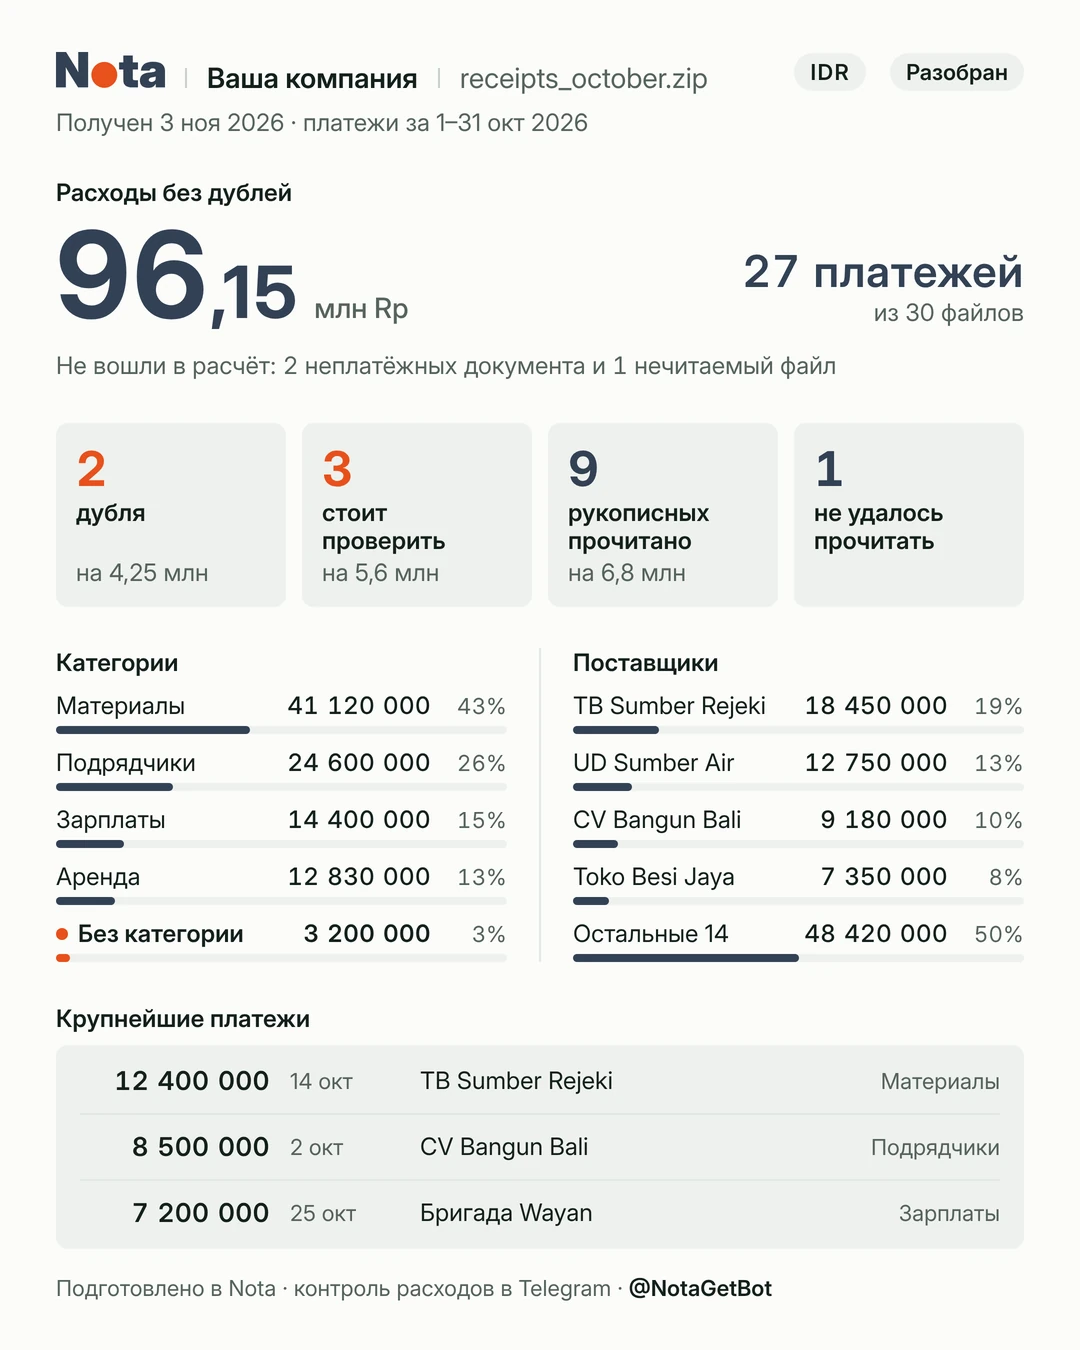
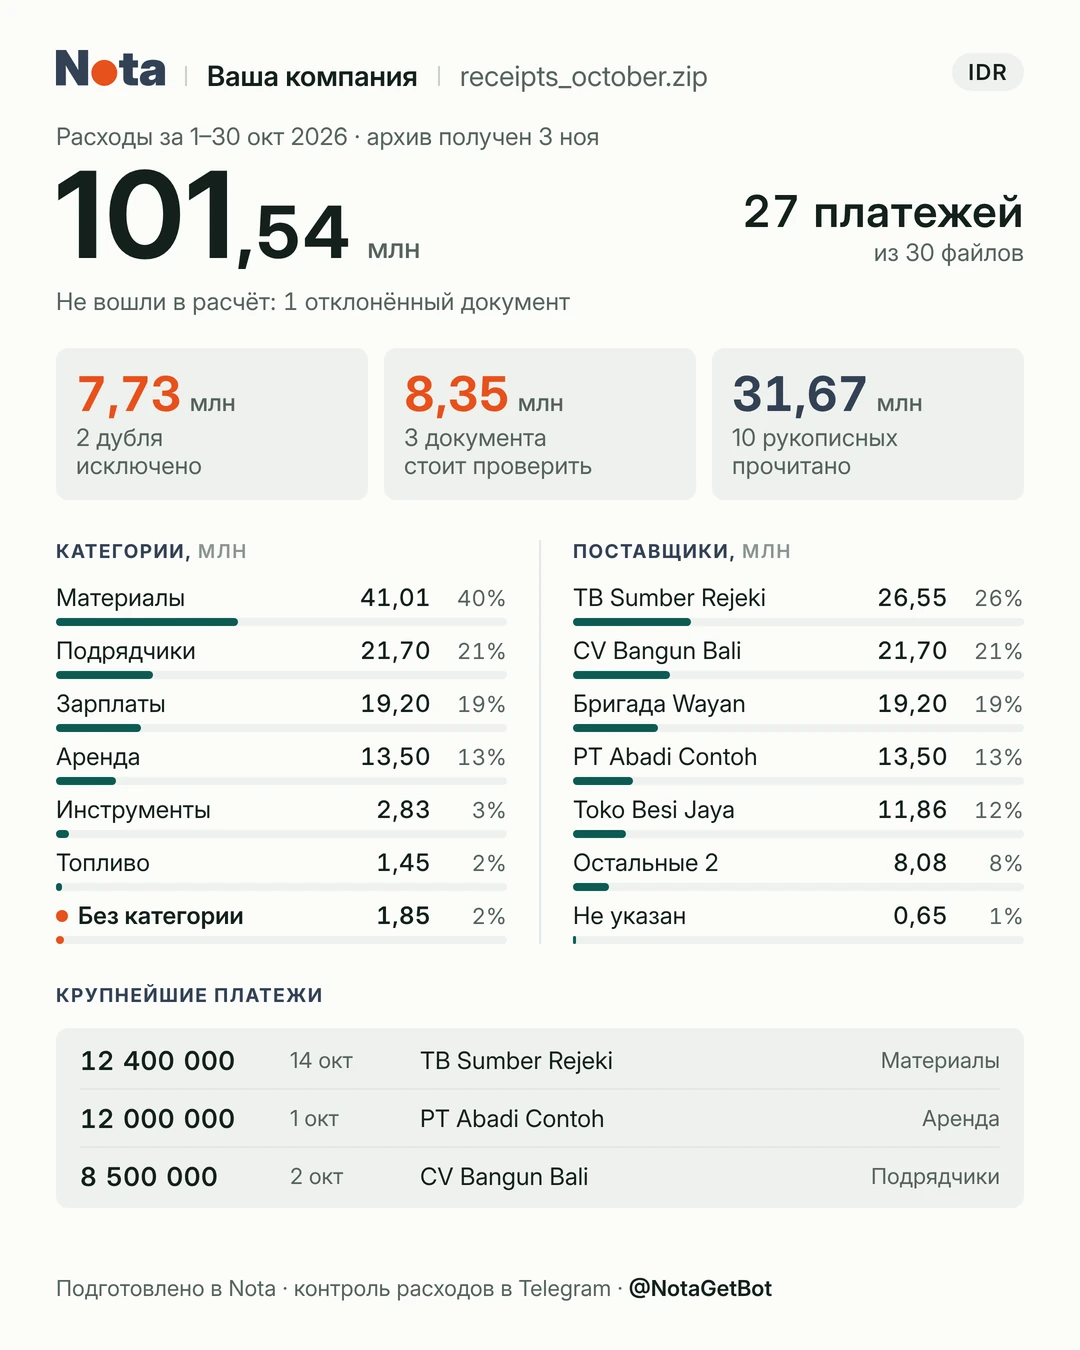
Лендинг v11: новый пример отчёта по архиву из генератора, обновлена картинка для соцсетей
Карточка в утверждённом дизайне вместо старой (без «Разобран», итог без дублей,
три плитки): «Ваша компания», 27 платежей из 30 файлов, 101,54 млн IDR.
Подписи alt и og обновлены под новые цифры.

Claude-Session: https://claude.ai/code/session_01L3HhR7LSGwJtypFbeUeh92

diff --git a/nota/src/data/content-v11.ts b/nota/src/data/content-v11.ts
@@ -17,7 +17,7 @@ export const meta = {
   description:
     'Telegram-бот для чеков сотрудников. Пришлите архив чеков и накладных и через 15 минут получите отчёт о расходах с дублями и странными суммами. ' + FREE + ' бесплатно.',
   // Подпись к картинке для соцсетей (og:image:alt)
-  ogAlt: 'Nota: пришлите архив чеков — получите отчёт о расходах за 15 минут. Пример отчёта: 96,15 млн рупий, 27 платежей, 2 дубля',
+  ogAlt: 'Nota: пришлите архив чеков — получите отчёт о расходах за 15 минут. Пример отчёта: 101,54 млн рупий, 27 платежей, 2 дубля',
 };
 
 // Главная кнопка называет результат, а не усилие, и повторяет обещание заголовка (решение основателя 15.11).

diff --git a/founder/report-cards/README.md b/founder/report-cards/README.md
@@ -120,4 +120,4 @@
 - `generator/example.py` — пример на выдуманных данных: `python3 example.py` собирает четыре формата на русском в IDR в `generator/out/`; `--all` — все языки и валюты; `--scale 1` — в 1080 px.
 
 ## Заметки основателя
-- На сайте пока стоит прежняя карточка архива (`nota/public/screens/report-archive-*.webp`); заменить — по команде основателя.
+- 19.11 по команде основателя на сайте заменена карточка архива (`nota/public/screens/report-archive-1080.webp` и `-2160.webp`) и картинка для соцсетей (`nota/public/og-v10.png`): новая собрана генератором на выдуманных данных — «Ваша компания», receipts_october.zip, 27 платежей из 30 файлов, 101,54 млн.
